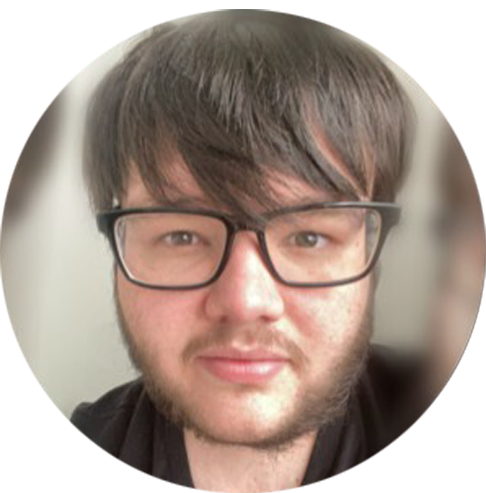
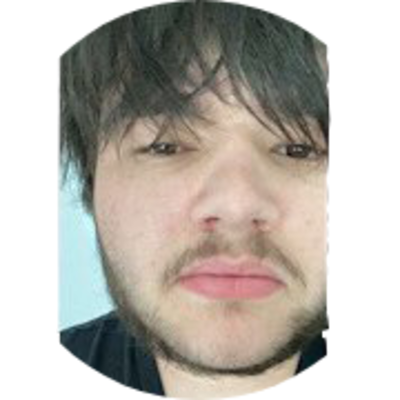
update images

diff --git a/about.html b/about.html
@@ -124,7 +124,7 @@
         </div>
         <div class="col-lg-5 col-md-12 col-12">
           <div class="about-image svg">
-            <img src="images/Webp.net-resizeimage.png" class="img-fluid" alt="svg image">
+            <img src="images/profile.png" class="img-fluid" alt="svg image">
           </div>
         </div>
       </div>
